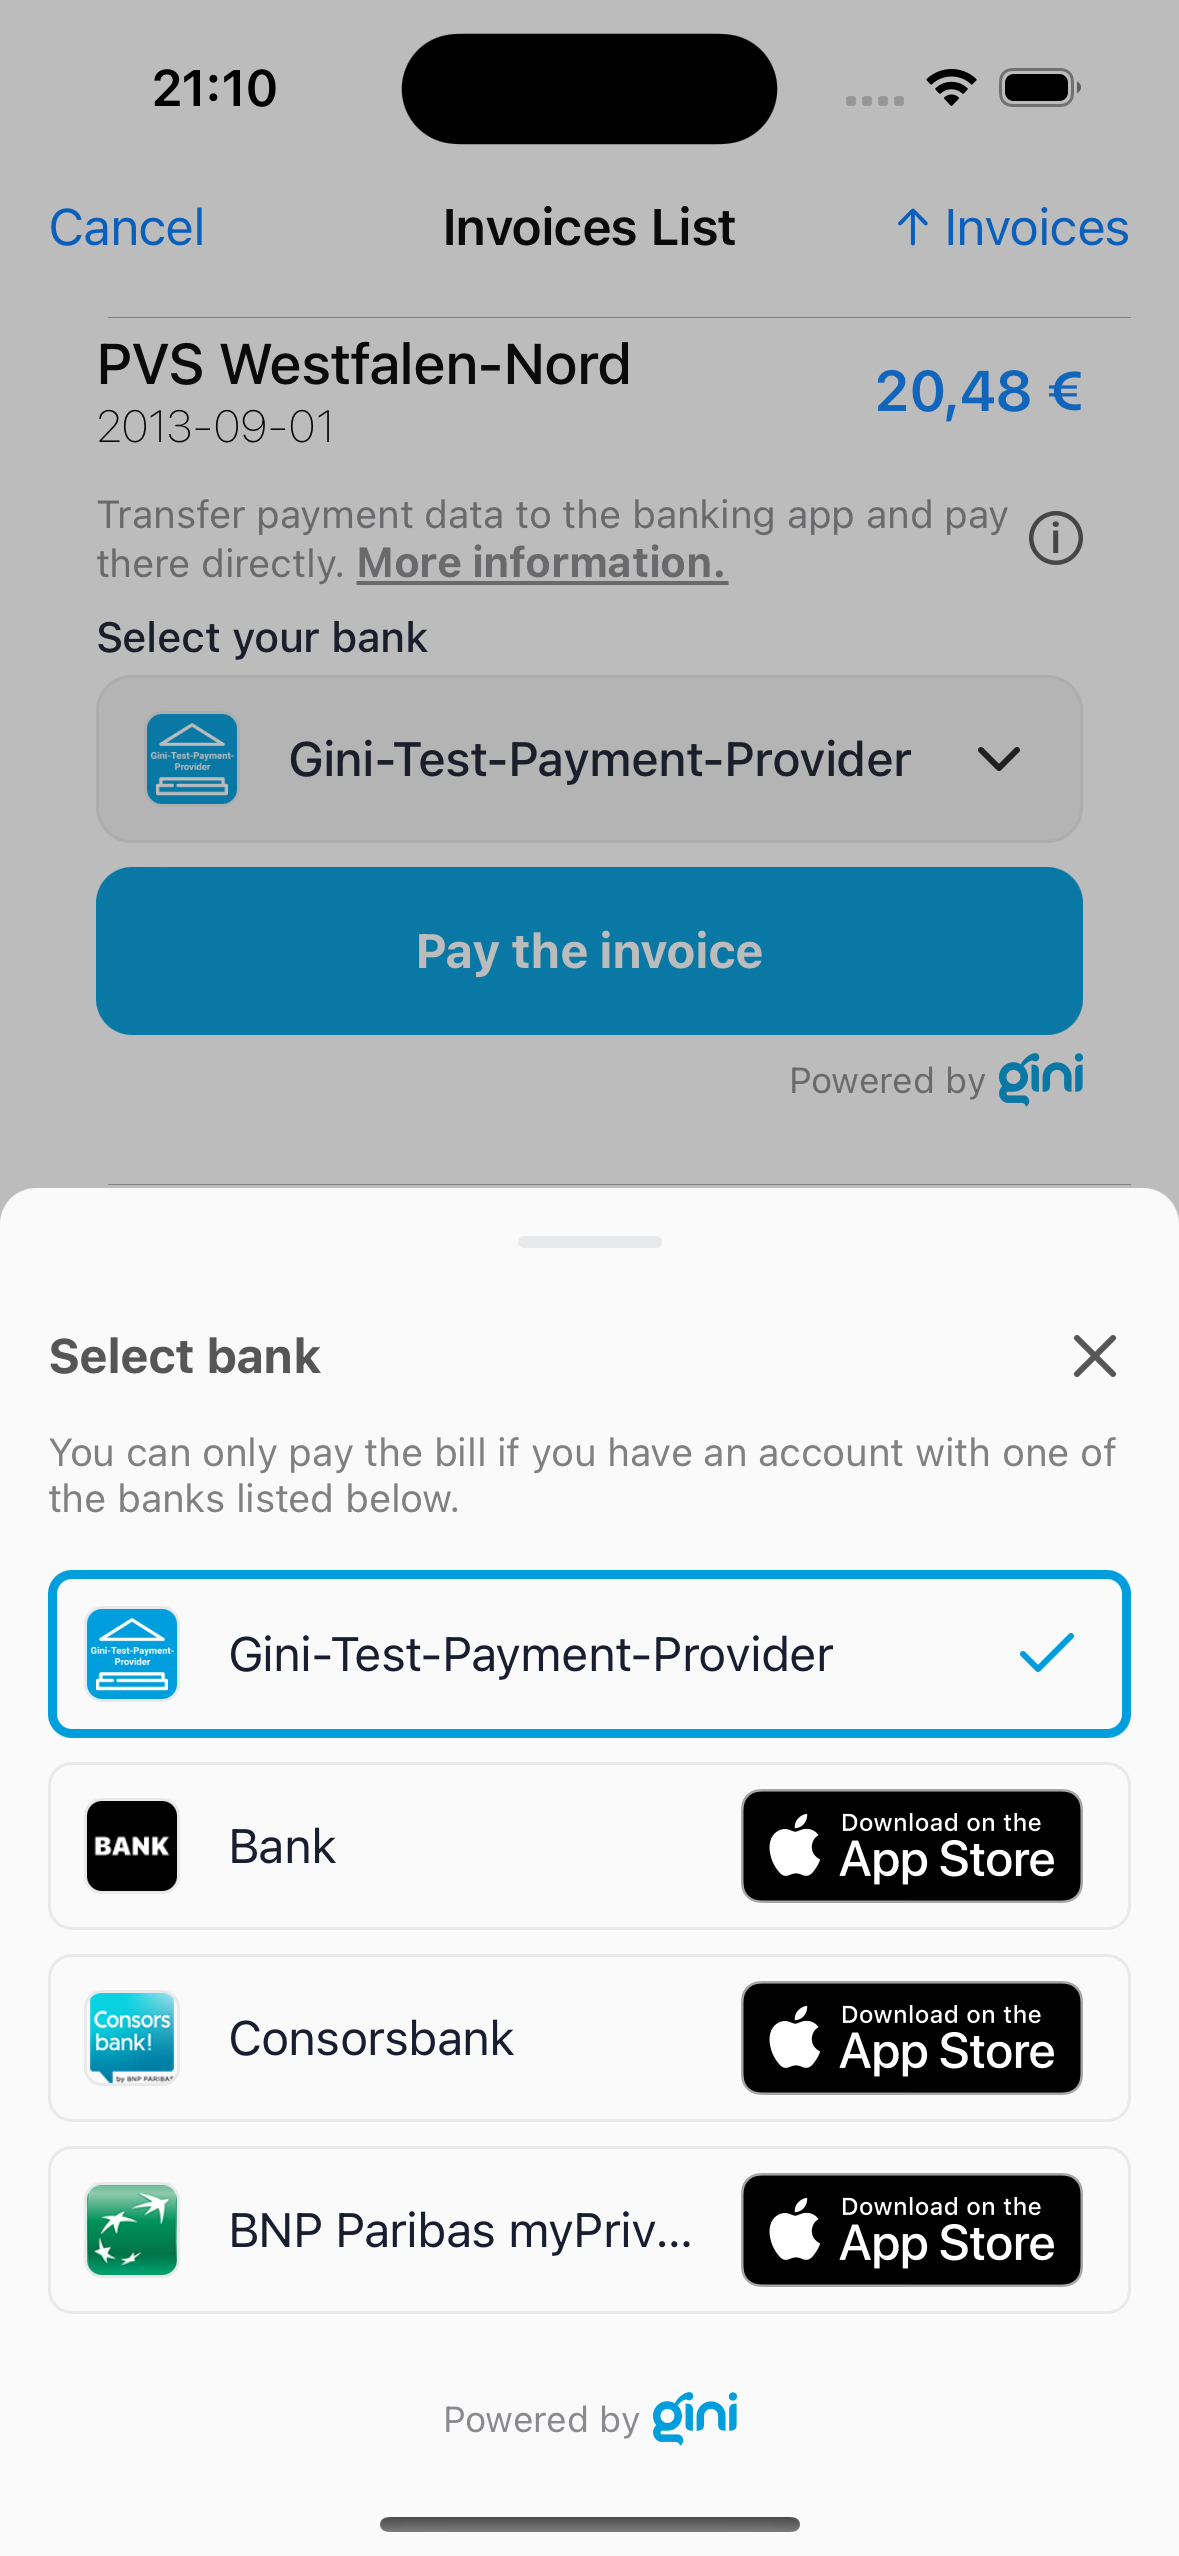
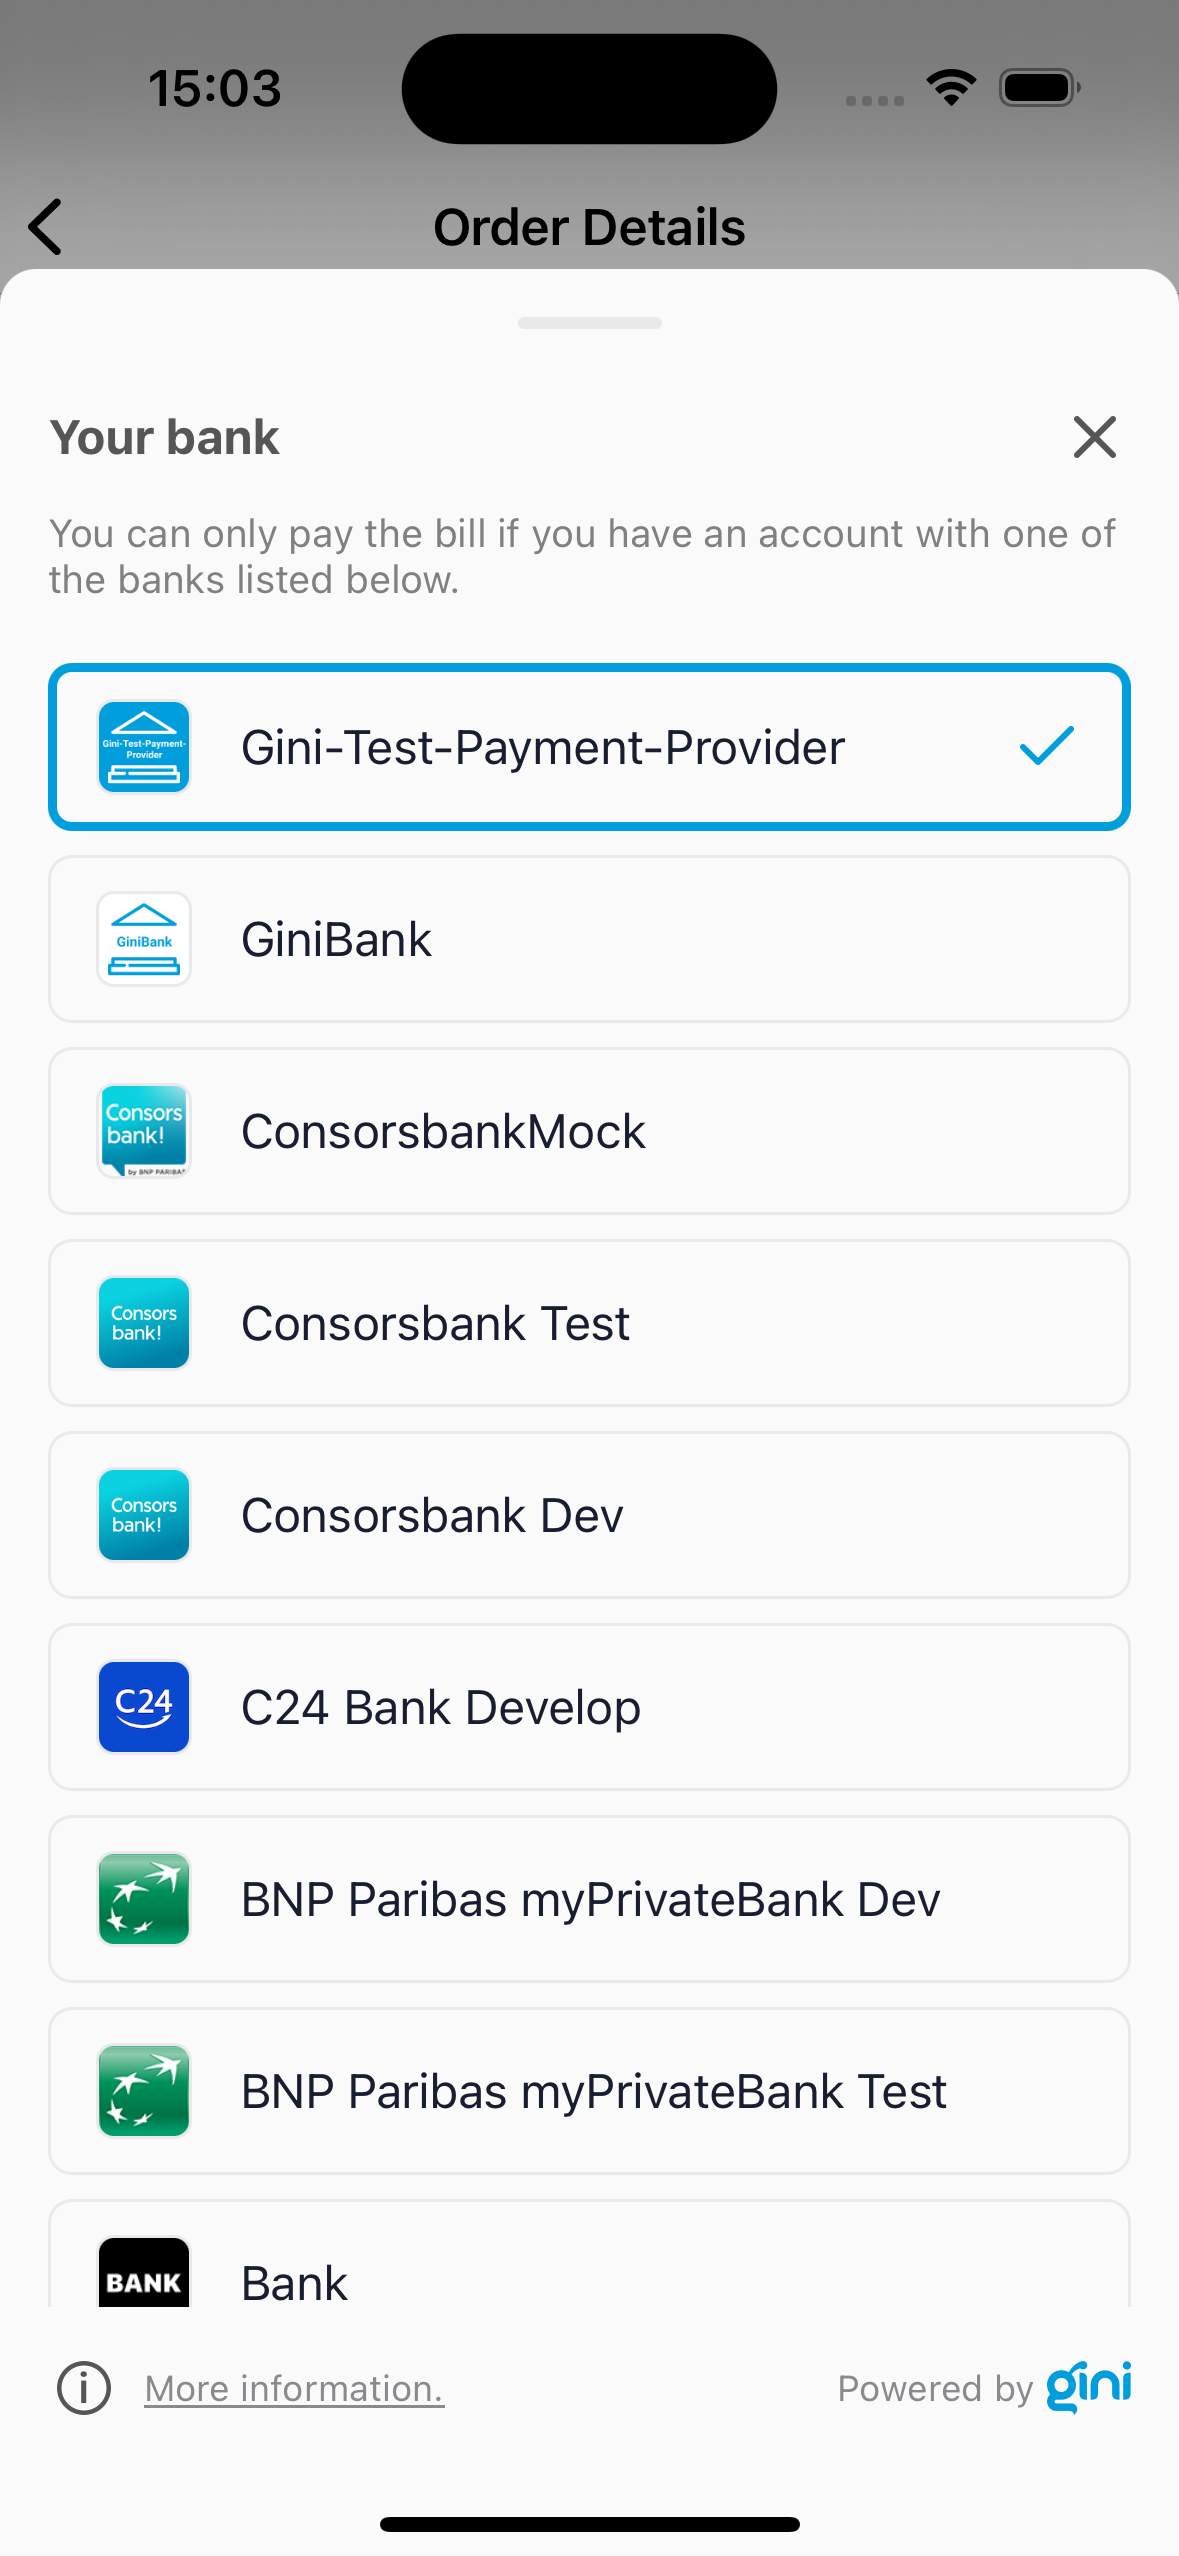
feat(GiniMerchantSDK): Fix testing guide + new screenshots

diff --git a/MerchantSDK/GiniMerchantSDK/Documentation/source/Testing.md b/MerchantSDK/GiniMerchantSDK/Documentation/source/Testing.md
@@ -29,16 +29,16 @@ After you've set the client credentials in the example banking app and installed
 
 #### Payment component
 
-After following the integration steps above you'll arrive at the `Payment Invoice list screen`, which already has integrated the `Payment Component`.
-The following screenshot shows a sample list of invoices where the `PaymentComponent` is shown for each invoice.
+After following the integration steps above you'll arrive at the `Payments list screen`. Then, you can navigate to `Payment detail screen`. Tapping on `Pay` will show you the `Payment Component`.
+The following screenshot shows a payment detail screen with the `PaymentComponent` shown in a bottom sheet.
 
 <br>
-<center><img src="img/Integration guide/InvoiceListWithPaymentComponent.png" height="500"/></center>
+<center><img src="img/Integration guide/PaymentDetailWithPaymentComponent.png" height="500"/></center>
 </br>
 
 #### Bank Selection Bottom sheet 
 
-You should see the `Gini-Test-Payment-Provider` preselected in every payment component view. By clicking the picker you should see the `BankSelectionBottomSheet` with the list of available banking apps (including `Gini-Test-Payment-Provider` and other testing and production apps).
+By clicking the picker you should see the `BankSelectionBottomSheet` with the list of available banking apps (including `Gini-Test-Payment-Provider` and other testing and production apps).
 
 <br>
 <center><img src="img/Integration guide/BankSelectionBottomSheet.png" height="500"/></center>
@@ -54,9 +54,9 @@ By clicking either the more information or the info icon on the `Payment Compone
 
 #### Payment Review
 
-By clicking the `Pay the invoice` button on a `Payment Component` view you should see the `Payment Review screen`, which shows the invoice's pages and the payment information. It also allows editing the payment information. The `To the banking app` button should have the icon and colors of the banking app, which was selected in the payment component view.
+By clicking the `Continue to overview` button on a `Payment Component` view you should see the `Payment Review Bottom Sheet`, which shows the the payment information. It also allows editing the payment amount information. The `To the banking app` button should have the icon and colors of the banking app, which was selected in the payment component view.
 
-Check that the extractions and the document preview are shown and then press the `Pay` button:
+Check that the details are shown and then press the `To the banking app` button:
 
 <br>
 <center><img src="img/Integration guide/PaymentReviewScreen.png" height="500"/></center>
@@ -65,7 +65,7 @@ Check that the extractions and the document preview are shown and then press the
 #### Execute payment
 
 When clicking the `To the banking app` button on the payment review you should be redirected to the example banking app where the payment information will be fetched from Gini (including any changes you made on the payment review). Press the "Pay" button to execute a test payment which will mark the payment as paid in the [Gini Merchant API](https://merchant-api.gini.net/documentation/#gini-health-api-documentation).
-You should be redirected to the example banking app where the final extractions are shown:
+You should be redirected to the example banking app where the final payment details are shown:
 
 <br>
 <center><img src="img/Integration guide/ReviewScreenBeforeResolvingPayment.png" height="500"/></center>
